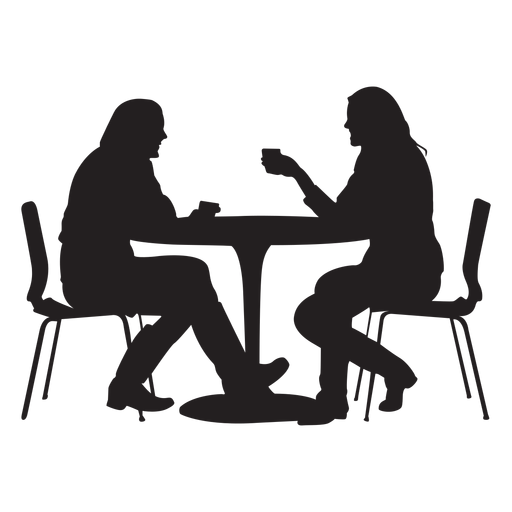
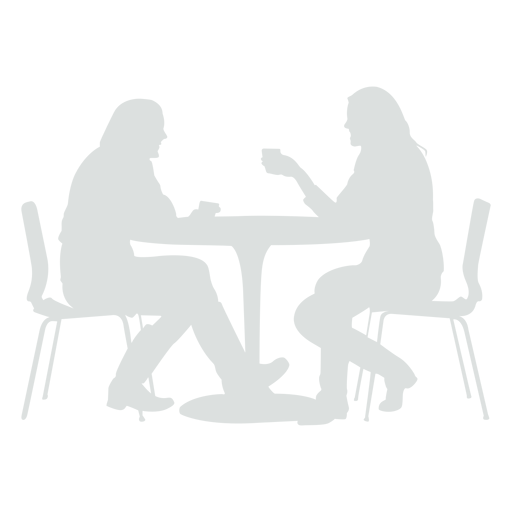
Cambia imagen de personas comiendo a blanca

Changed region(s): [[0.0312, 0.1562, 0.9688, 0.8438]]

diff --git a/index-comedor/comedor.css b/index-comedor/comedor.css
@@ -82,7 +82,6 @@ body{
     position: absolute;
     opacity: 0;
     top: 0;
-    right: -20px;
     transition: 0.5s;
 }
 
@@ -136,7 +135,6 @@ body{
 
 /*Silueta de las personas comiendo*/
 .people-eat{
-    filter: brightness(0%);
     width: 30vw;
     height: 30vw;
 }

diff --git a/proxComedor/proxComidas.css b/proxComedor/proxComidas.css
@@ -70,7 +70,6 @@ body{
     position: absolute;
     opacity: 0;
     top: 0;
-    right: -20px;
     transition: 0.5s;
 }
 
